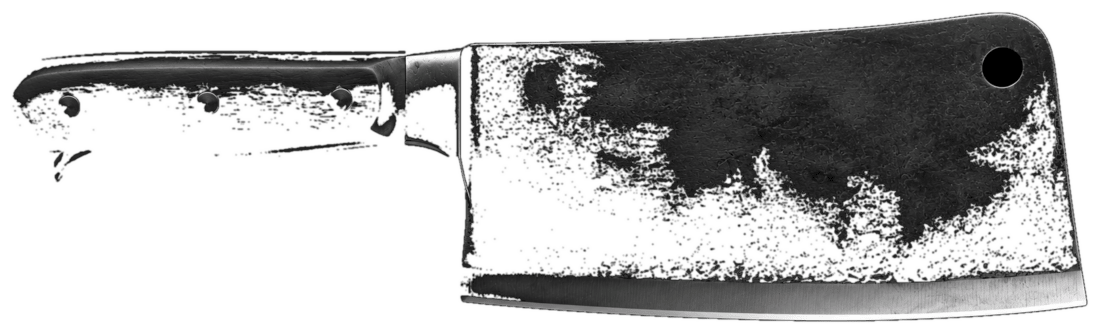
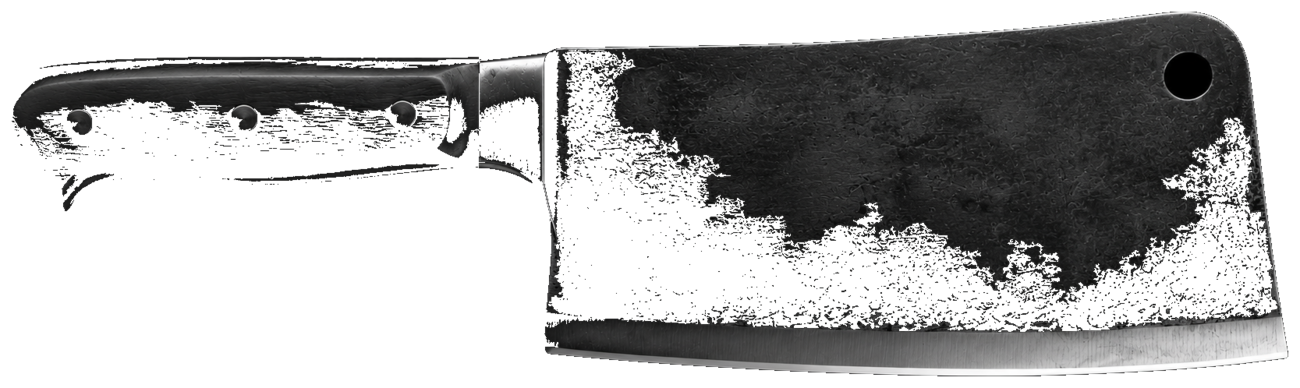
fix: retraite les couteaux avec alpha strictement binaire (zero transparence possible), tranche de viande toujours visible sur le bloc et passe au-dessus des couteaux (z-index), ne fait que tomber a l'impact

diff --git a/src/components/IntroExperience.jsx b/src/components/IntroExperience.jsx
@@ -78,6 +78,12 @@ export default function IntroExperience({ onDone }) {
       tl.fromTo(meatBigRef.current,
         { opacity: 0, scale: 0.92 },
         { opacity: 1, scale: 1, duration: 0.8, ease: 'power2.out' }, 0.25)
+      // La tranche est déjà posée sur le bloc, discrète, dès le début —
+      // elle ne fera que tomber au moment de l'impact.
+      tl.set(meatSliceRef.current, { xPercent: -50, yPercent: -50, x: 0, y: '-6vh', rotate: 0 }, 0.25)
+      tl.fromTo(meatSliceRef.current,
+        { opacity: 0 },
+        { opacity: 1, duration: 0.8, ease: 'power2.out' }, 0.25)
 
       // 1. Frappe en arc de cercle — les couteaux se lèvent depuis les
       // côtés hauts, puis décrivent une courbe descendante jusqu'à
@@ -124,10 +130,9 @@ export default function IntroExperience({ onDone }) {
         ease: 'none',
       }, impactT)
 
-      // 3. La tranche vient d'être découpée : elle apparaît au sommet du
-      // bloc puis tombe (accélération façon gravité + rotation). Le gros
-      // bloc encaisse un léger choc.
-      tl.set(meatSliceRef.current, { xPercent: -50, yPercent: -50, x: 0, y: '-6vh', rotate: 0, opacity: 1 }, impactT)
+      // 3. Impact : la tranche, déjà posée sur le bloc, se détache et
+      // tombe (accélération façon gravité + rotation). Le gros bloc
+      // encaisse un léger choc.
       tl.to(meatBigRef.current, {
         keyframes: [
           { scale: 1.025, duration: 0.05 },
@@ -206,13 +211,16 @@ export default function IntroExperience({ onDone }) {
         <div className="intro-meat" aria-hidden="true">
           <div className="intro-meat-shadow" ref={meatShadowRef} />
           <img className="meat-big" ref={meatBigRef} src={meatBigImg} alt="" />
-          <img className="meat-slice" ref={meatSliceRef} src={meatSliceImg} alt="" />
         </div>
 
         <div className="intro-knives-row">
           <img className="intro-knife" ref={knifeLeftRef} src={knifeLeftImg} alt="" aria-hidden="true" />
           <img className="intro-knife" ref={knifeRightRef} src={knifeRightImg} alt="" aria-hidden="true" />
         </div>
+
+        {/* Au-dessus des couteaux : posée sur le bloc dès le début,
+            visible en permanence, elle ne fait que tomber à l'impact. */}
+        <img className="meat-slice" ref={meatSliceRef} src={meatSliceImg} alt="" aria-hidden="true" />
       </div>
 
       {soundAvailable && (

diff --git a/src/components/IntroExperience.css b/src/components/IntroExperience.css
@@ -67,6 +67,7 @@
   position: absolute;
   top: 50%;
   left: 50%;
+  z-index: 3;
   width: min(15vw, 180px);
   height: auto;
   opacity: 0;
